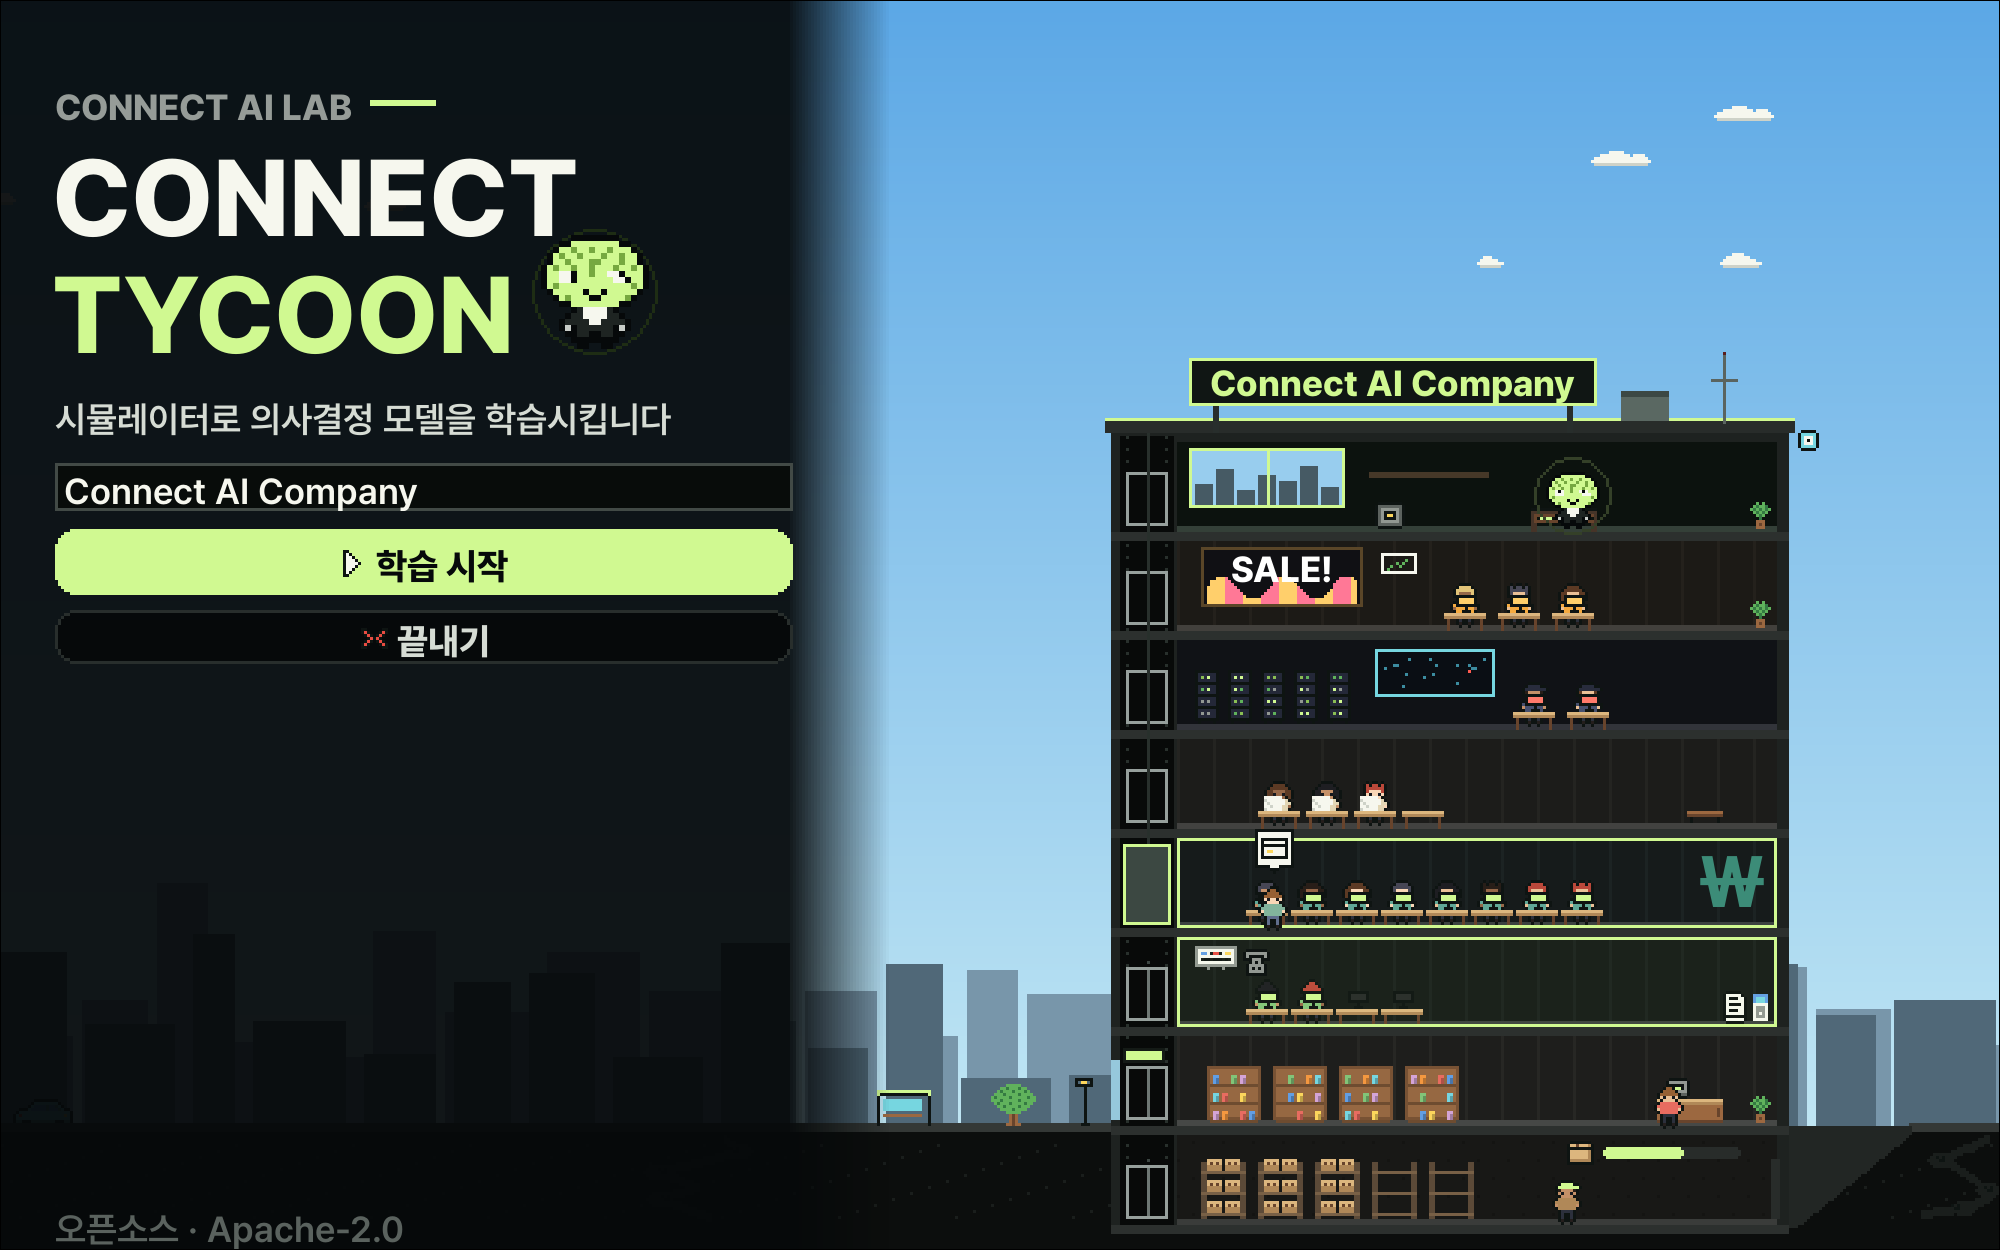
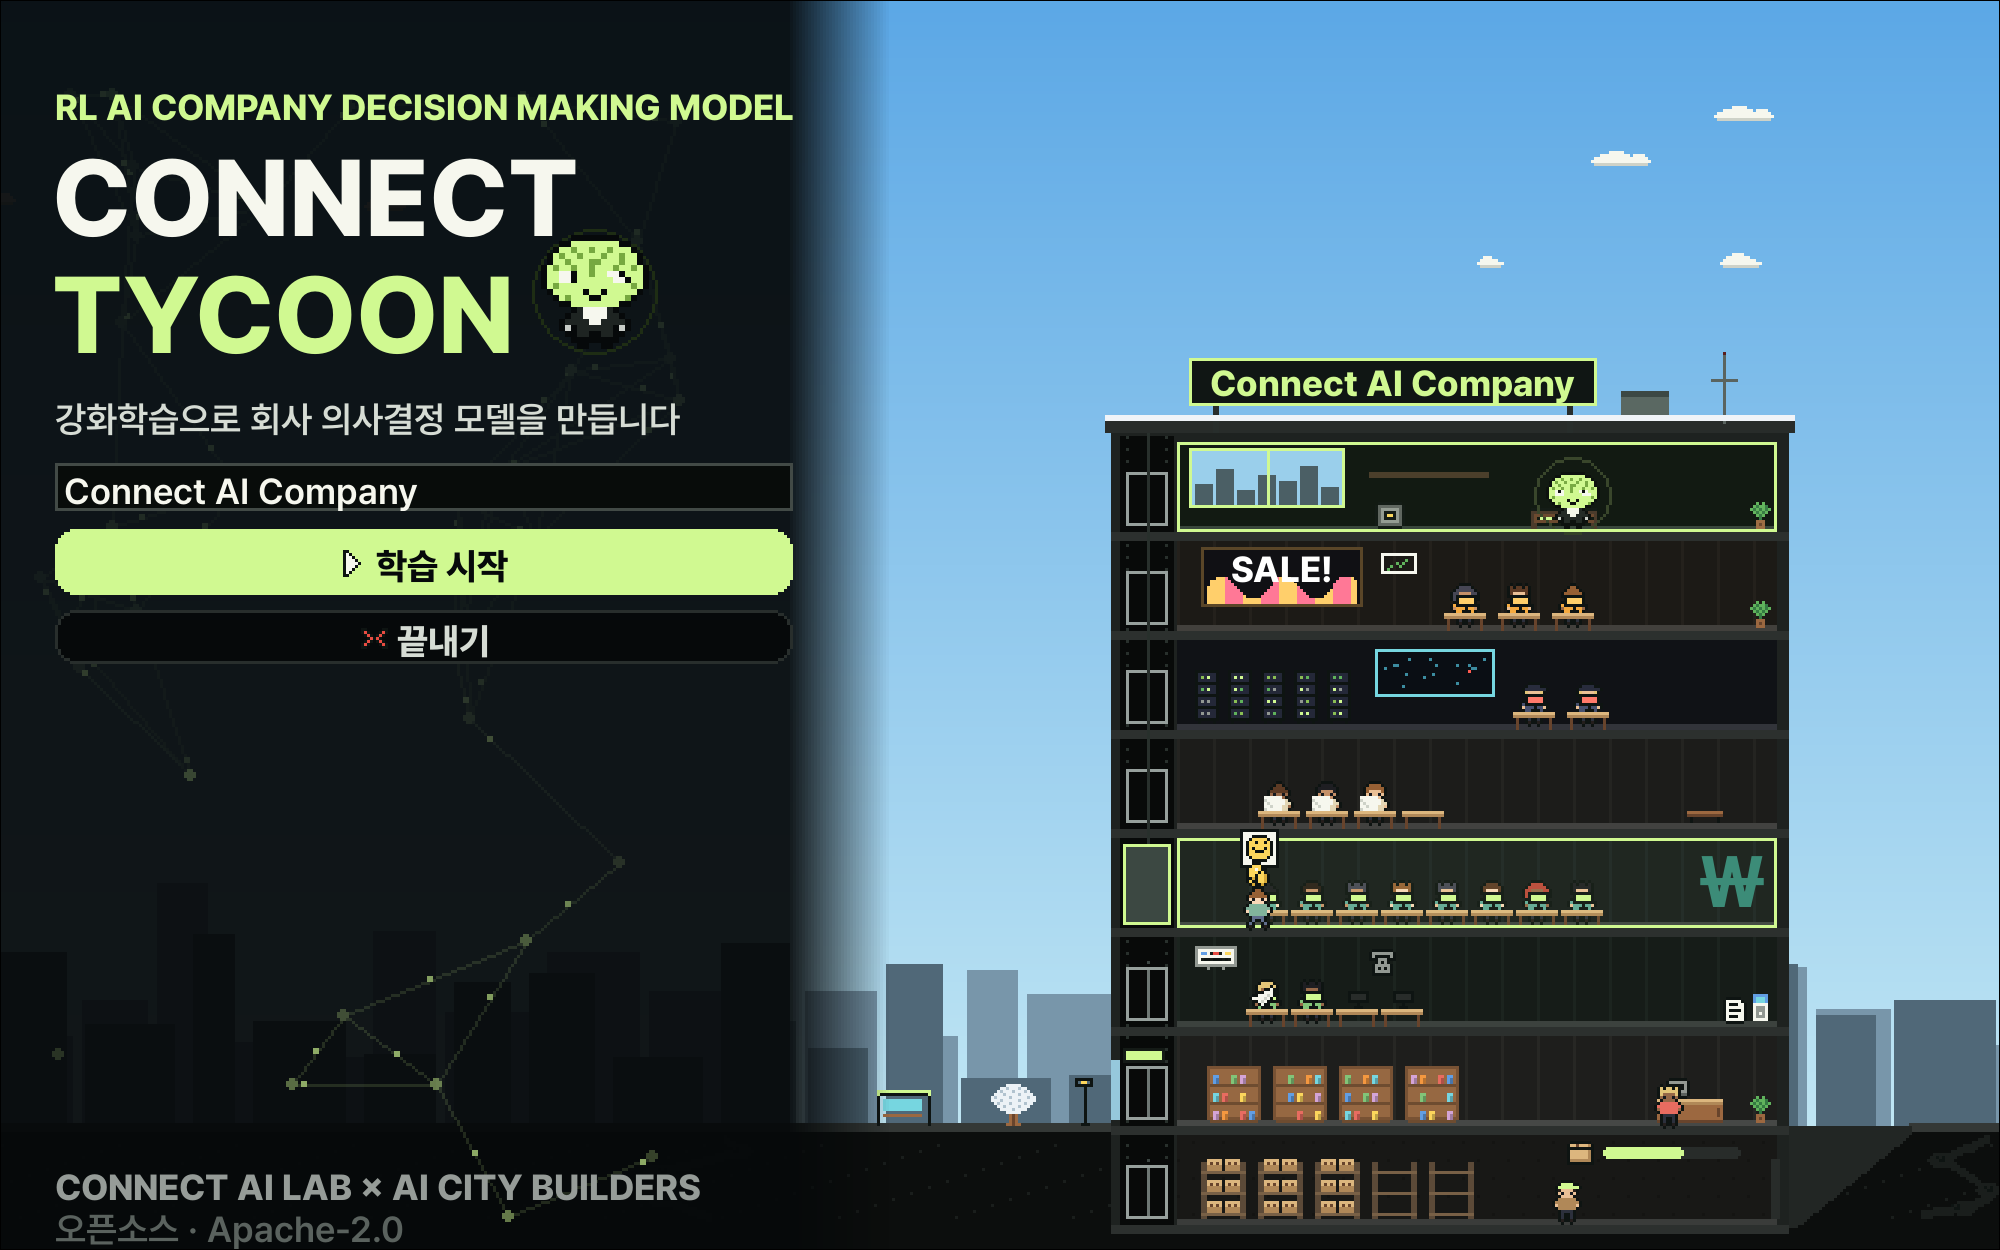
Brand the simulator: live S-A-R decision stream, neural title, glowing train button

diff --git a/connect_tycoon/game/studio.py b/connect_tycoon/game/studio.py
@@ -26,6 +26,7 @@ SHORT_ACT = {"즉시 처리": "바로 처리", "일반 처리": "순서대로", 
              "부분 환불": "절반 환불", "거절": "거절", "허용": "통과", "차단": "막기"}
 QUESTION = {"security": "이 결제를 통과시킬까요?", "refund": "이 환불 요청, 어떻게 할까요?", "cs": "이 문의를 어디로 보낼까요?"}
 REWARD_TIP = {"이익": "이익 · 번 돈이 얼마나 중요한가", "고객 만족": "고객 만족 · 손님 기분이 얼마나 중요한가", "위험": "위험 회피 · 사고를 얼마나 피할까"}
+STREAM_NAME = {"staffing": "인력", "inventory": "재고", "marketing": "광고", "cs": "문의", "refund": "환불", "security": "결제"}
 REAL_TIP = "학습에 쓰지 않은 실제 기록으로 다시 채점 · 카드 거래 검토 대기열(ULB) · 소매 · 호텔 · 자전거 대여의 하루 수요"
 
 
@@ -158,6 +159,7 @@ class Studio:
             self.feedback["t"] += dt
             if self.feedback["t"] > 1.8: self.feedback = None
         self.hud(surf)
+        self.stream(surf)
         if a.panel:
             self.panel(surf)
         if self.review:
@@ -198,6 +200,41 @@ class Studio:
         surf.blit(art.icon("coin"), (right - 20 - w_, 5))
         if ui.hover((right - 22 - w_, 0, w_ + 16, HEAD)): ui.tip = "이번 달 이익 (하루가 끝날 때마다 쌓입니다)"
 
+    def stream(self, surf):
+        """실시간 판단 스트림 · 모델의 판단이 상황 → 행동(확신) → 보상으로 한 줄씩 흘러갑니다 (S → A → R)."""
+        a, ui = self.app, self.app.ui
+        if self.review or not a.feed or self.job == "v0":
+            return
+        w = min(236, a.world_rect.width - 12)
+        top = HEAD + 6
+        n = max(2, min(6, (a.world.top - 40 - top - 24) // 13))      # 빌딩 간판 위 하늘에 들어가는 만큼
+        rows = [it["x"] for it in a.feed[-n:]]
+        h = 20 + len(rows) * 13 + 4
+        r = pygame.Rect(6, top, w, h)
+        cover(surf, r)
+        bg = pygame.Surface(r.size, pygame.SRCALPHA)
+        pygame.draw.rect(bg, (6, 9, 10, 238), bg.get_rect(), border_radius=8)
+        pygame.draw.rect(bg, (208, 249, 145, 70), bg.get_rect(), 1, border_radius=8)
+        surf.blit(bg, r.topleft)
+        on = int(a.t_real * 2) % 2 == 0
+        pygame.draw.circle(surf, ACID if on else (60, 80, 50), (r.x + 9, r.y + 9), 3)
+        ui.label(surf, "LIVE", r.x + 16, r.y + 3, ACID, bold=True)
+        ui.label(surf, "상황 → 행동 · 확신 · 보상", r.right - 6, r.y + 3, MUTED, right=True)
+        for i, x in enumerate(rows):
+            y = r.y + 19 + i * 13
+            last = i == len(rows) - 1
+            col = WHITE if last else (150, 158, 154)
+            if last:
+                pygame.draw.rect(surf, ACID, (r.x + 3, y + 2, 2, 9))
+            surf.blit(art.icon(DEPT_ICON[x["dept"]]), (r.x + 8, y + 1))
+            ev, act = x.get("ev") or {}, SHORT_ACT.get(x["action"], x["action"])
+            what = f"{man(ev['amount'])} → {act}" if x["dept"] in ("refund", "security") and "amount" in ev else f"{STREAM_NAME[x['dept']]} → {act}"
+            ui.label(surf, what, r.x + 21, y, col)
+            rw = x.get("reward", 0.0)
+            ui.label(surf, f"{rw:+.1f}", r.right - 6, y, (ACID if rw >= 0 else RED) if last else ((120, 150, 100) if rw >= 0 else (170, 90, 80)), right=True)
+            conf = "규정" if x.get("ruled") else (f"{x['jev']['response']['answers']['decision'].get('confidence', 0):.0%}" if x.get("jev") else "")
+            ui.label(surf, conf, r.right - 44, y, col, right=True)
+
     def panel(self, surf):
         a, ui = self.app, self.app.ui
         x0 = a.vw - PANEL
@@ -212,7 +249,7 @@ class Studio:
         b = art.brain_ceo("think" if a.trainer.running else "idle", brand=True)
         b = pygame.transform.scale(b, (b.get_width() * 2, b.get_height() * 2))
         surf.blit(b, (x + 4, y + 10 + (int(math.sin(a.t_real * 6) * 2) if a.trainer.running else 0)))
-        ui.label(surf, "MODEL", x + 44, y + 6, MUTED, bold=True)
+        ui.label(surf, "RL MODEL", x + 44, y + 6, MUTED, bold=True)
         ui.label(surf, cur["name"] if cur else "—", x + 44, y + 18, WHITE, bold=True, k=2)
         if cur:
             ui.label(surf, man(cur["profit"]), x + w - 6, y + 18, ACID, bold=True, k=2, right=True)
@@ -244,6 +281,11 @@ class Studio:
             ui.label(surf, f"학습 중 {it}/{LENGTH}", x + 6, y + 3, ACID, bold=True)
         else:
             nxt = f"v{len(self.versions)}"
+            if self.job is None:                          # 숨 쉬듯 빛나는 학습 버튼
+                g = 0.5 + 0.5 * math.sin(a.t_real * 2.4)
+                glow = pygame.Surface((w + 10, 36), pygame.SRCALPHA)
+                pygame.draw.rect(glow, (208, 249, 145, int(18 + 34 * g)), glow.get_rect(), border_radius=16)
+                surf.blit(glow, (x - 5, y - 5))
             if ui.button(surf, (x, y, w, 26), f"학습  →  {nxt}", "play", kind="acid", enabled=self.job is None):
                 self.train()
         y += 30

diff --git a/connect_tycoon/game/screens.py b/connect_tycoon/game/screens.py
@@ -78,6 +78,34 @@ def win(app, surf, w, h, title, icon=None, close=True):
 
 
 # ── 타이틀 ────────────────────────────────────────────────────────────────
+_NET = {}
+
+
+def _neural(surf, w, h, t):
+    """타이틀 왼쪽의 뉴런 네트워크 · 점이 숨 쉬고, 연결선을 따라 신호가 흐릅니다."""
+    key = (w, h)
+    if key not in _NET:
+        import random
+        rnd = random.Random(7)
+        pts = [(rnd.uniform(8, w - 8), rnd.uniform(8, h - 8), rnd.uniform(0, 6.28)) for _ in range(34)]
+        edges = [(i, j, rnd.random()) for i in range(len(pts)) for j in range(i + 1, len(pts))
+                 if math.hypot(pts[i][0] - pts[j][0], pts[i][1] - pts[j][1]) < 70]
+        _NET.clear(); _NET[key] = (pts, edges)
+    pts, edges = _NET[key]
+    layer = pygame.Surface((w, h), pygame.SRCALPHA)
+    for i, j, o in edges:
+        (x1, y1, _), (x2, y2, _) = pts[i], pts[j]
+        fade = min(1.0, max(0.15, (min(y1, y2) / h - 0.45) * 3))      # 글자가 있는 위쪽은 옅게, 아래쪽은 또렷하게
+        pygame.draw.line(layer, (208, 249, 145, int(34 * fade)), (x1, y1), (x2, y2))
+        k = (t * 0.35 + o) % 1.0
+        pygame.draw.circle(layer, (208, 249, 145, int(170 * fade)), (int(x1 + (x2 - x1) * k), int(y1 + (y2 - y1) * k)), 1)
+    for x, y, ph in pts:
+        g = 0.5 + 0.5 * math.sin(t * 1.4 + ph)
+        fade = min(1.0, max(0.15, (y / h - 0.45) * 3))
+        pygame.draw.circle(layer, (208, 249, 145, int((40 + 80 * g) * fade)), (int(x), int(y)), 2)
+    surf.blit(layer, (0, 0))
+
+
 def title(app, surf, dt):
     """타이틀 · 이 게임은 '기업 의사결정 모델을 강화학습으로 만드는 도구'로 시작합니다."""
     ui, f = app.ui, app.fonts
@@ -92,10 +120,10 @@ def title(app, surf, dt):
         pygame.draw.line(ov, (6, 9, 10, a), (i, 0), (i, vh))
     surf.blit(ov, (0, 0))
     cover(surf, (0, 0, colw + 16, vh))
+    _neural(surf, colw + 16, vh, t)
     x0 = 18
     y = max(14, vh // 2 - 180)
-    ui.label(surf, "CONNECT AI LAB", x0, y, (150, 156, 152), bold=True)
-    pygame.draw.rect(surf, ACID, (x0 + app.fonts.width("CONNECT AI LAB", bold=True) + 6, y + 5, 22, 2))
+    ui.label(surf, "RL AI COMPANY DECISION MAKING MODEL", x0, y, ACID, bold=True)
     y += 16
     big = f.text("CONNECT", WHITE, bold=True, k=3)
     surf.blit(big, (x0 - 1, y)); y += big.get_height() - 4
@@ -109,7 +137,7 @@ def title(app, surf, dt):
     pygame.draw.circle(surf, (int(30 + 40 * glow), int(44 + 60 * glow), int(20 + 22 * glow)), (bx_ + b.get_width() // 2, y + 14), 21, 1)
     surf.blit(b, (bx_, y - 4 + int(math.sin(t * 2) * 2)))
     y += big2.get_height() + 6
-    ui.label(surf, "시뮬레이터로 의사결정 모델을 학습시킵니다", x0, y, (214, 220, 212)); y += 22
+    y = ui.para(surf, "강화학습으로 회사 의사결정 모델을 만듭니다", x0, y, colw - 4, (214, 220, 212), gap=14) + 8
     c = app.saved
     bw = colw - 4
     if c is not None and (c.month > 1 or (c.studio or {}).get("versions")):
@@ -134,6 +162,7 @@ def title(app, surf, dt):
         y += 34
     if ui.button(surf, (x0, y, bw, 18), "끝내기", "cross", kind="ghost"):
         app.quit = True
+    ui.label(surf, "CONNECT AI LAB × AI CITY BUILDERS", x0, vh - 28, (150, 156, 152), bold=True)
     ui.label(surf, "오픈소스 · Apache-2.0", x0, vh - 14, (90, 98, 94))
     if app.modal == "help":
         cover(surf, (0, 0, vw, vh))
